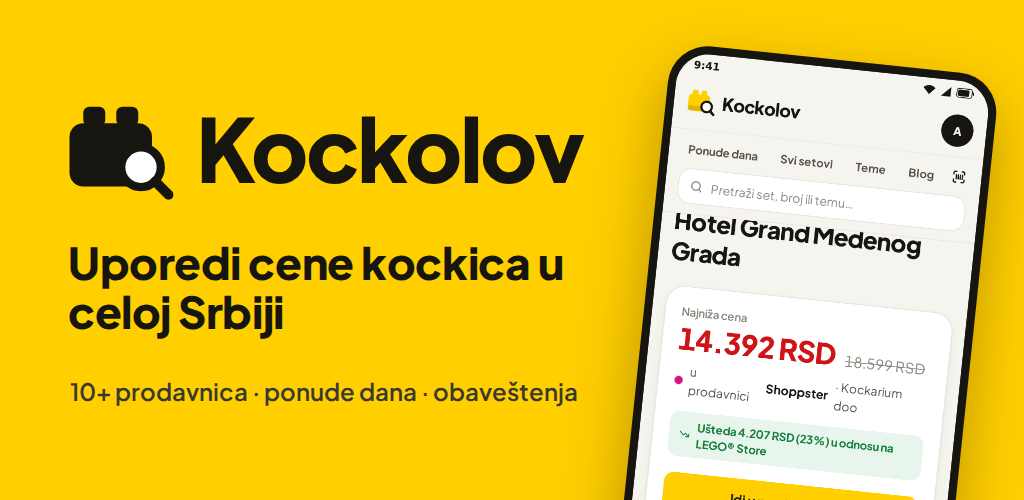
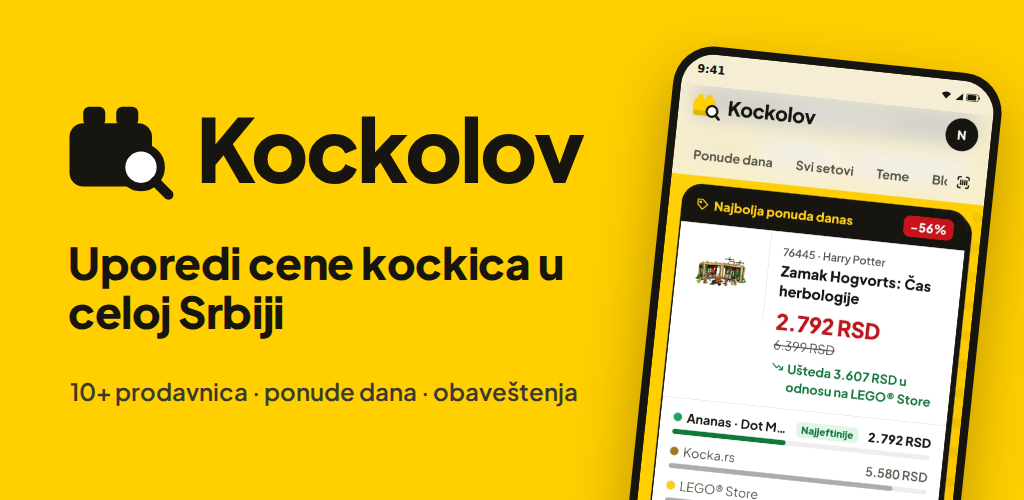
Play listing graphics from real phone screenshots: six screens and the feature graphic
Made from Milan's screenshots of the app (real product photos and prices),
status bar cleaned, in the same yellow frame with Serbian captions.

Claude-Session: https://claude.ai/code/session_0163xLHJAVRsjZ3ouydpqJJi

Changed region(s): [[0.5938, 0.09, 1.0, 1.0]]

diff --git a/mobile/store/google-play.md b/mobile/store/google-play.md
@@ -129,7 +129,7 @@ Pretraga i ponude rade bez naloga. Uz besplatan nalog vidiš cene iz svih prodav
 LEGO® je zaštićeni znak LEGO grupe, koja ne sponzoriše, ne odobrava niti je povezana sa ovom aplikacijom.
 ```
 
-**Graphics** (`google-play/`): `icon-512.png`, `feature-graphic-1024x500.png`, telefon: `screenshot-1…5` (1080×1920).
+**Graphics** (`google-play/`): `icon-512.png`, `feature-graphic-1024x500.png`, telefon: `screenshot-1…6` (1080×1920, iz snimaka sa Milanovog telefona).
 
 **Release notes** (Šta je novo, 1.0.0):
 
